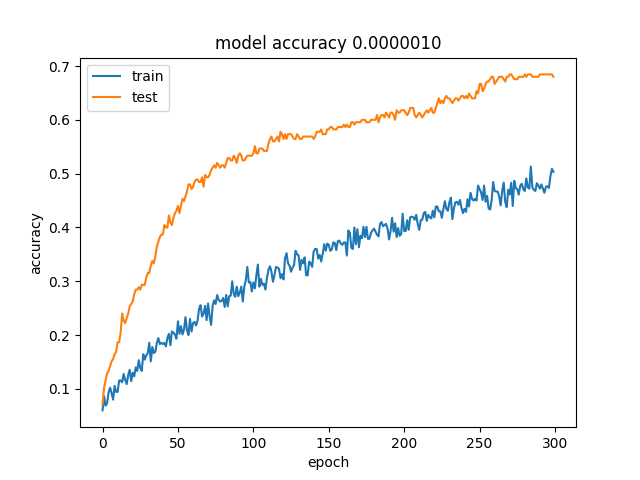
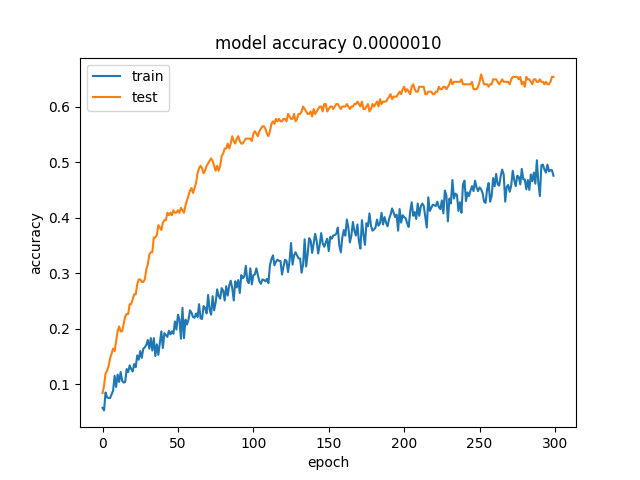
results

diff --git a/alexnet/64alexnet_thijs.py b/alexnet/64alexnet_thijs.py
@@ -154,7 +154,7 @@ np.random.seed(1000)
 
 
 epochs = 500
-lr = 0.00001  # 0.000001 best till now
+lr = 0.000001  # 0.000001 best till now
 alexnet = AlexNet(data_base_path='../other_GANS/datasets/swedish_np/', lr=lr)
 
 alexnet.train_network_with_generator(epochs=epochs)
